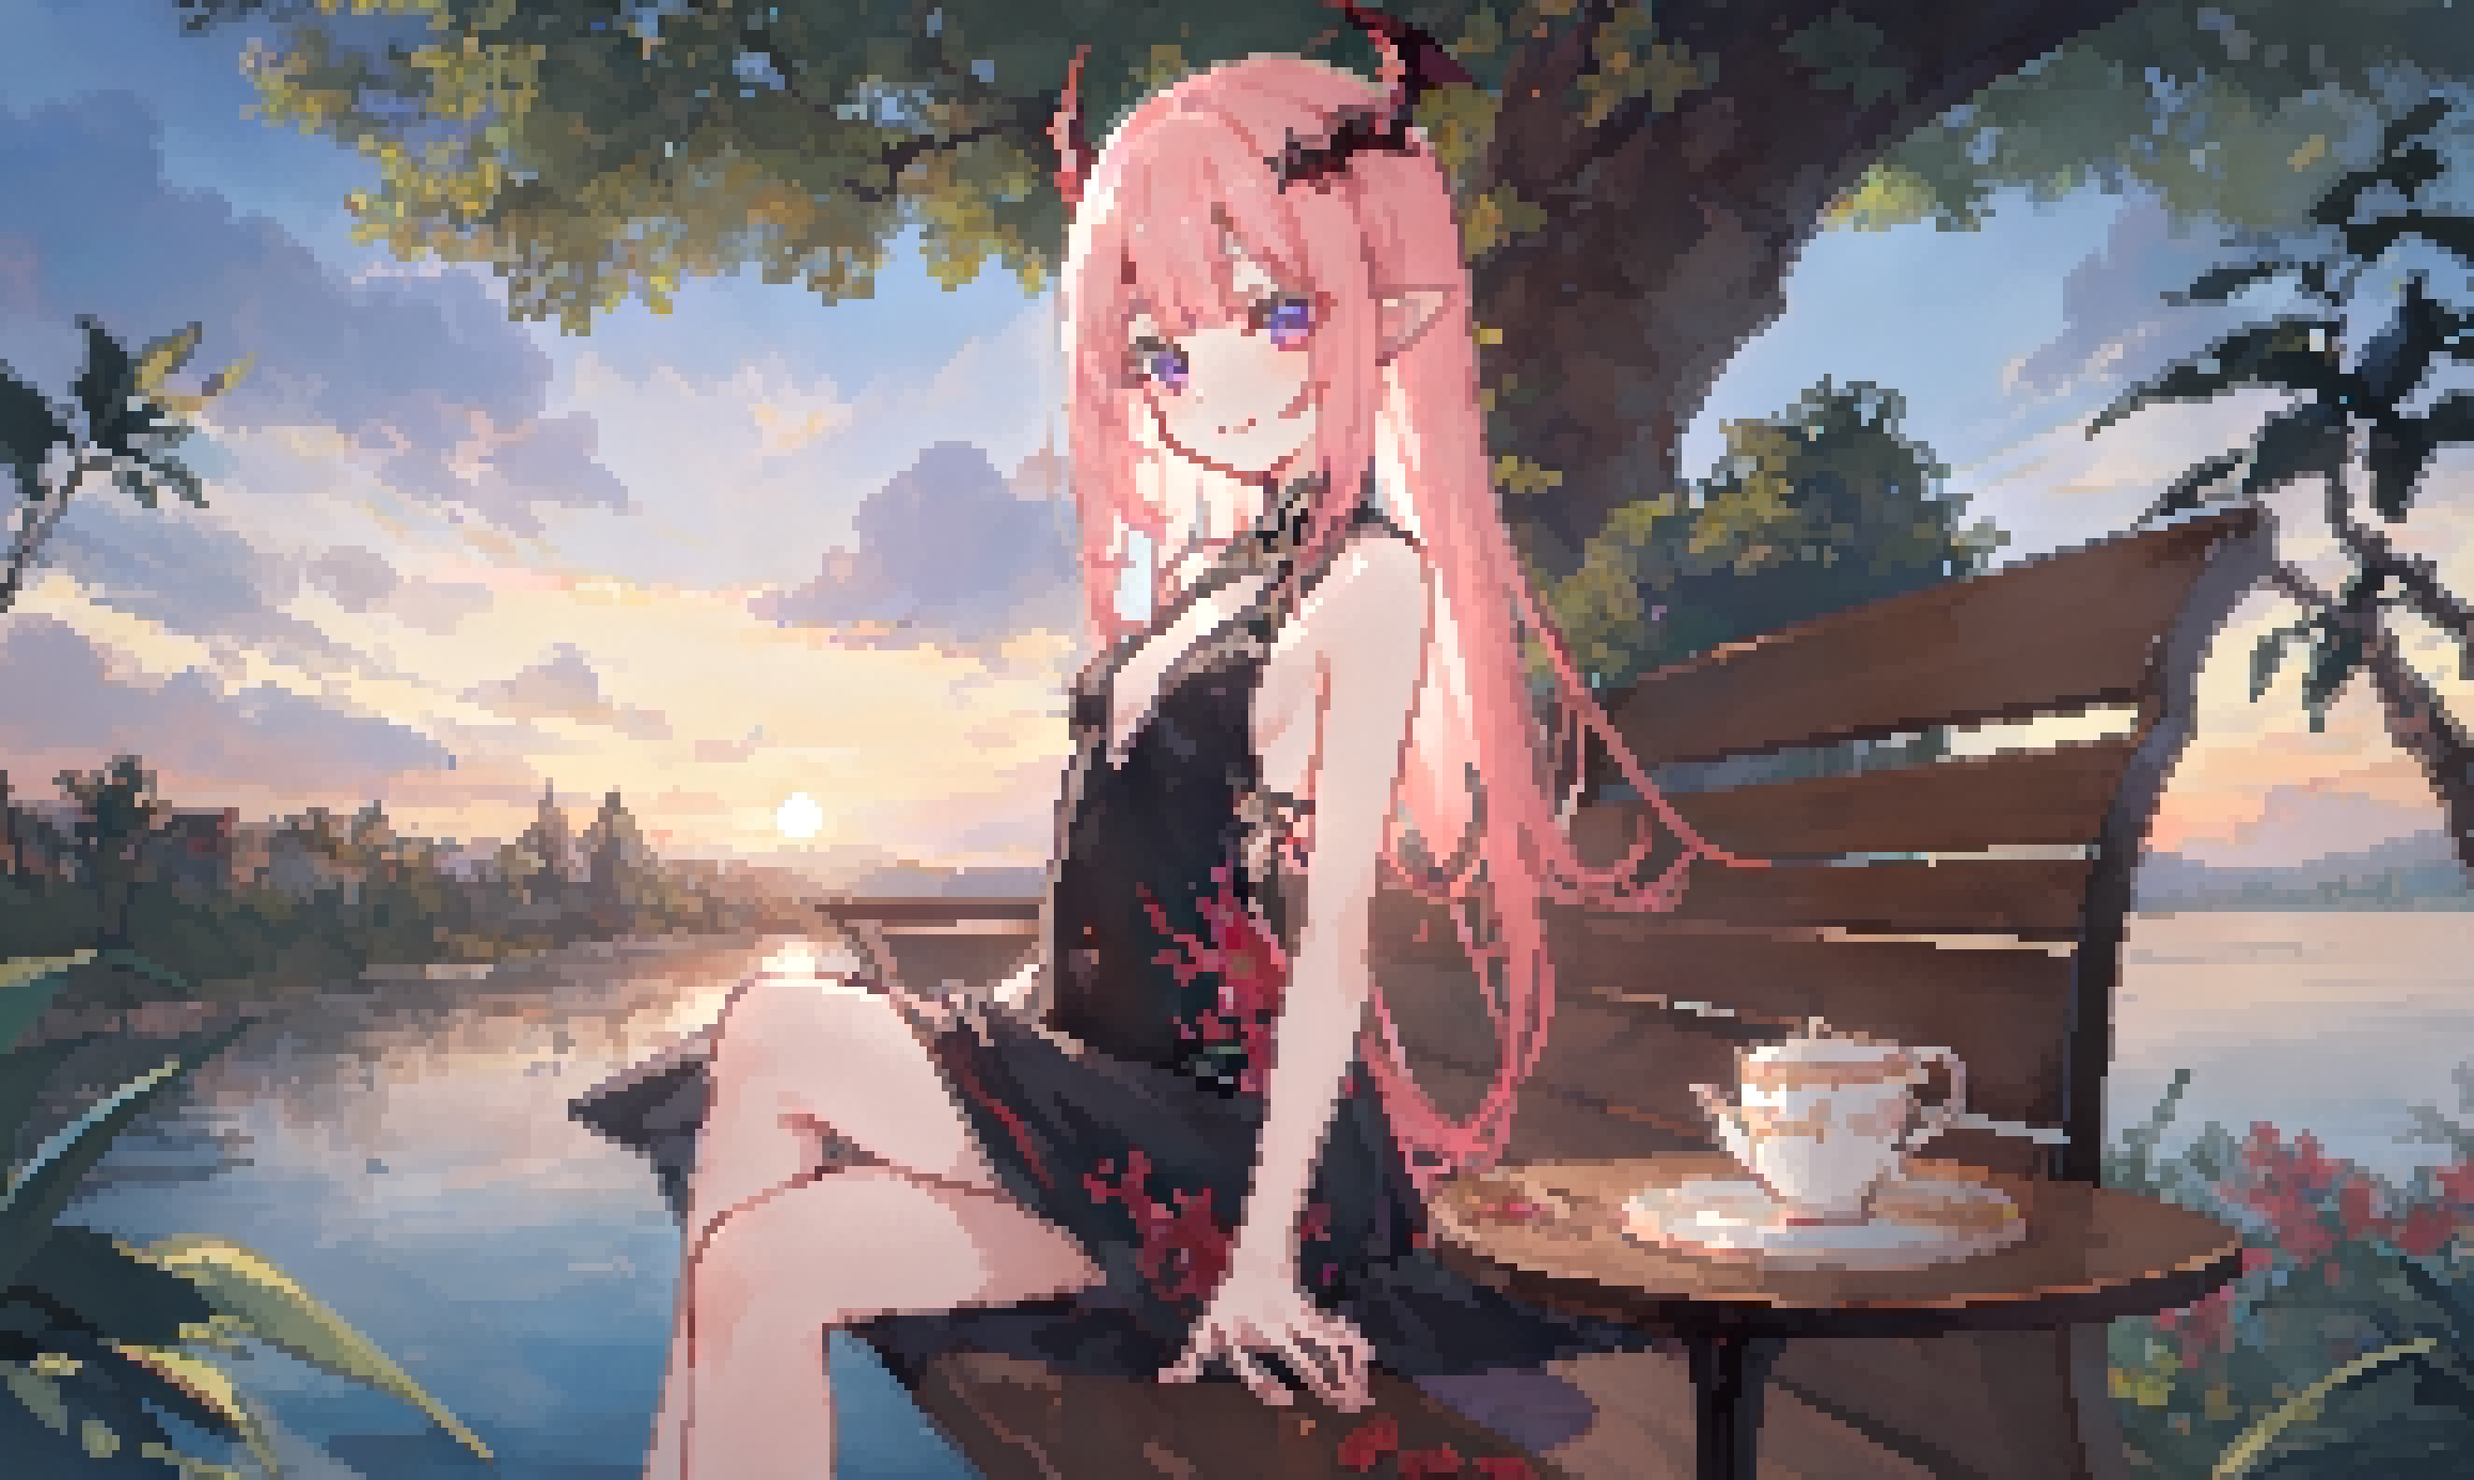
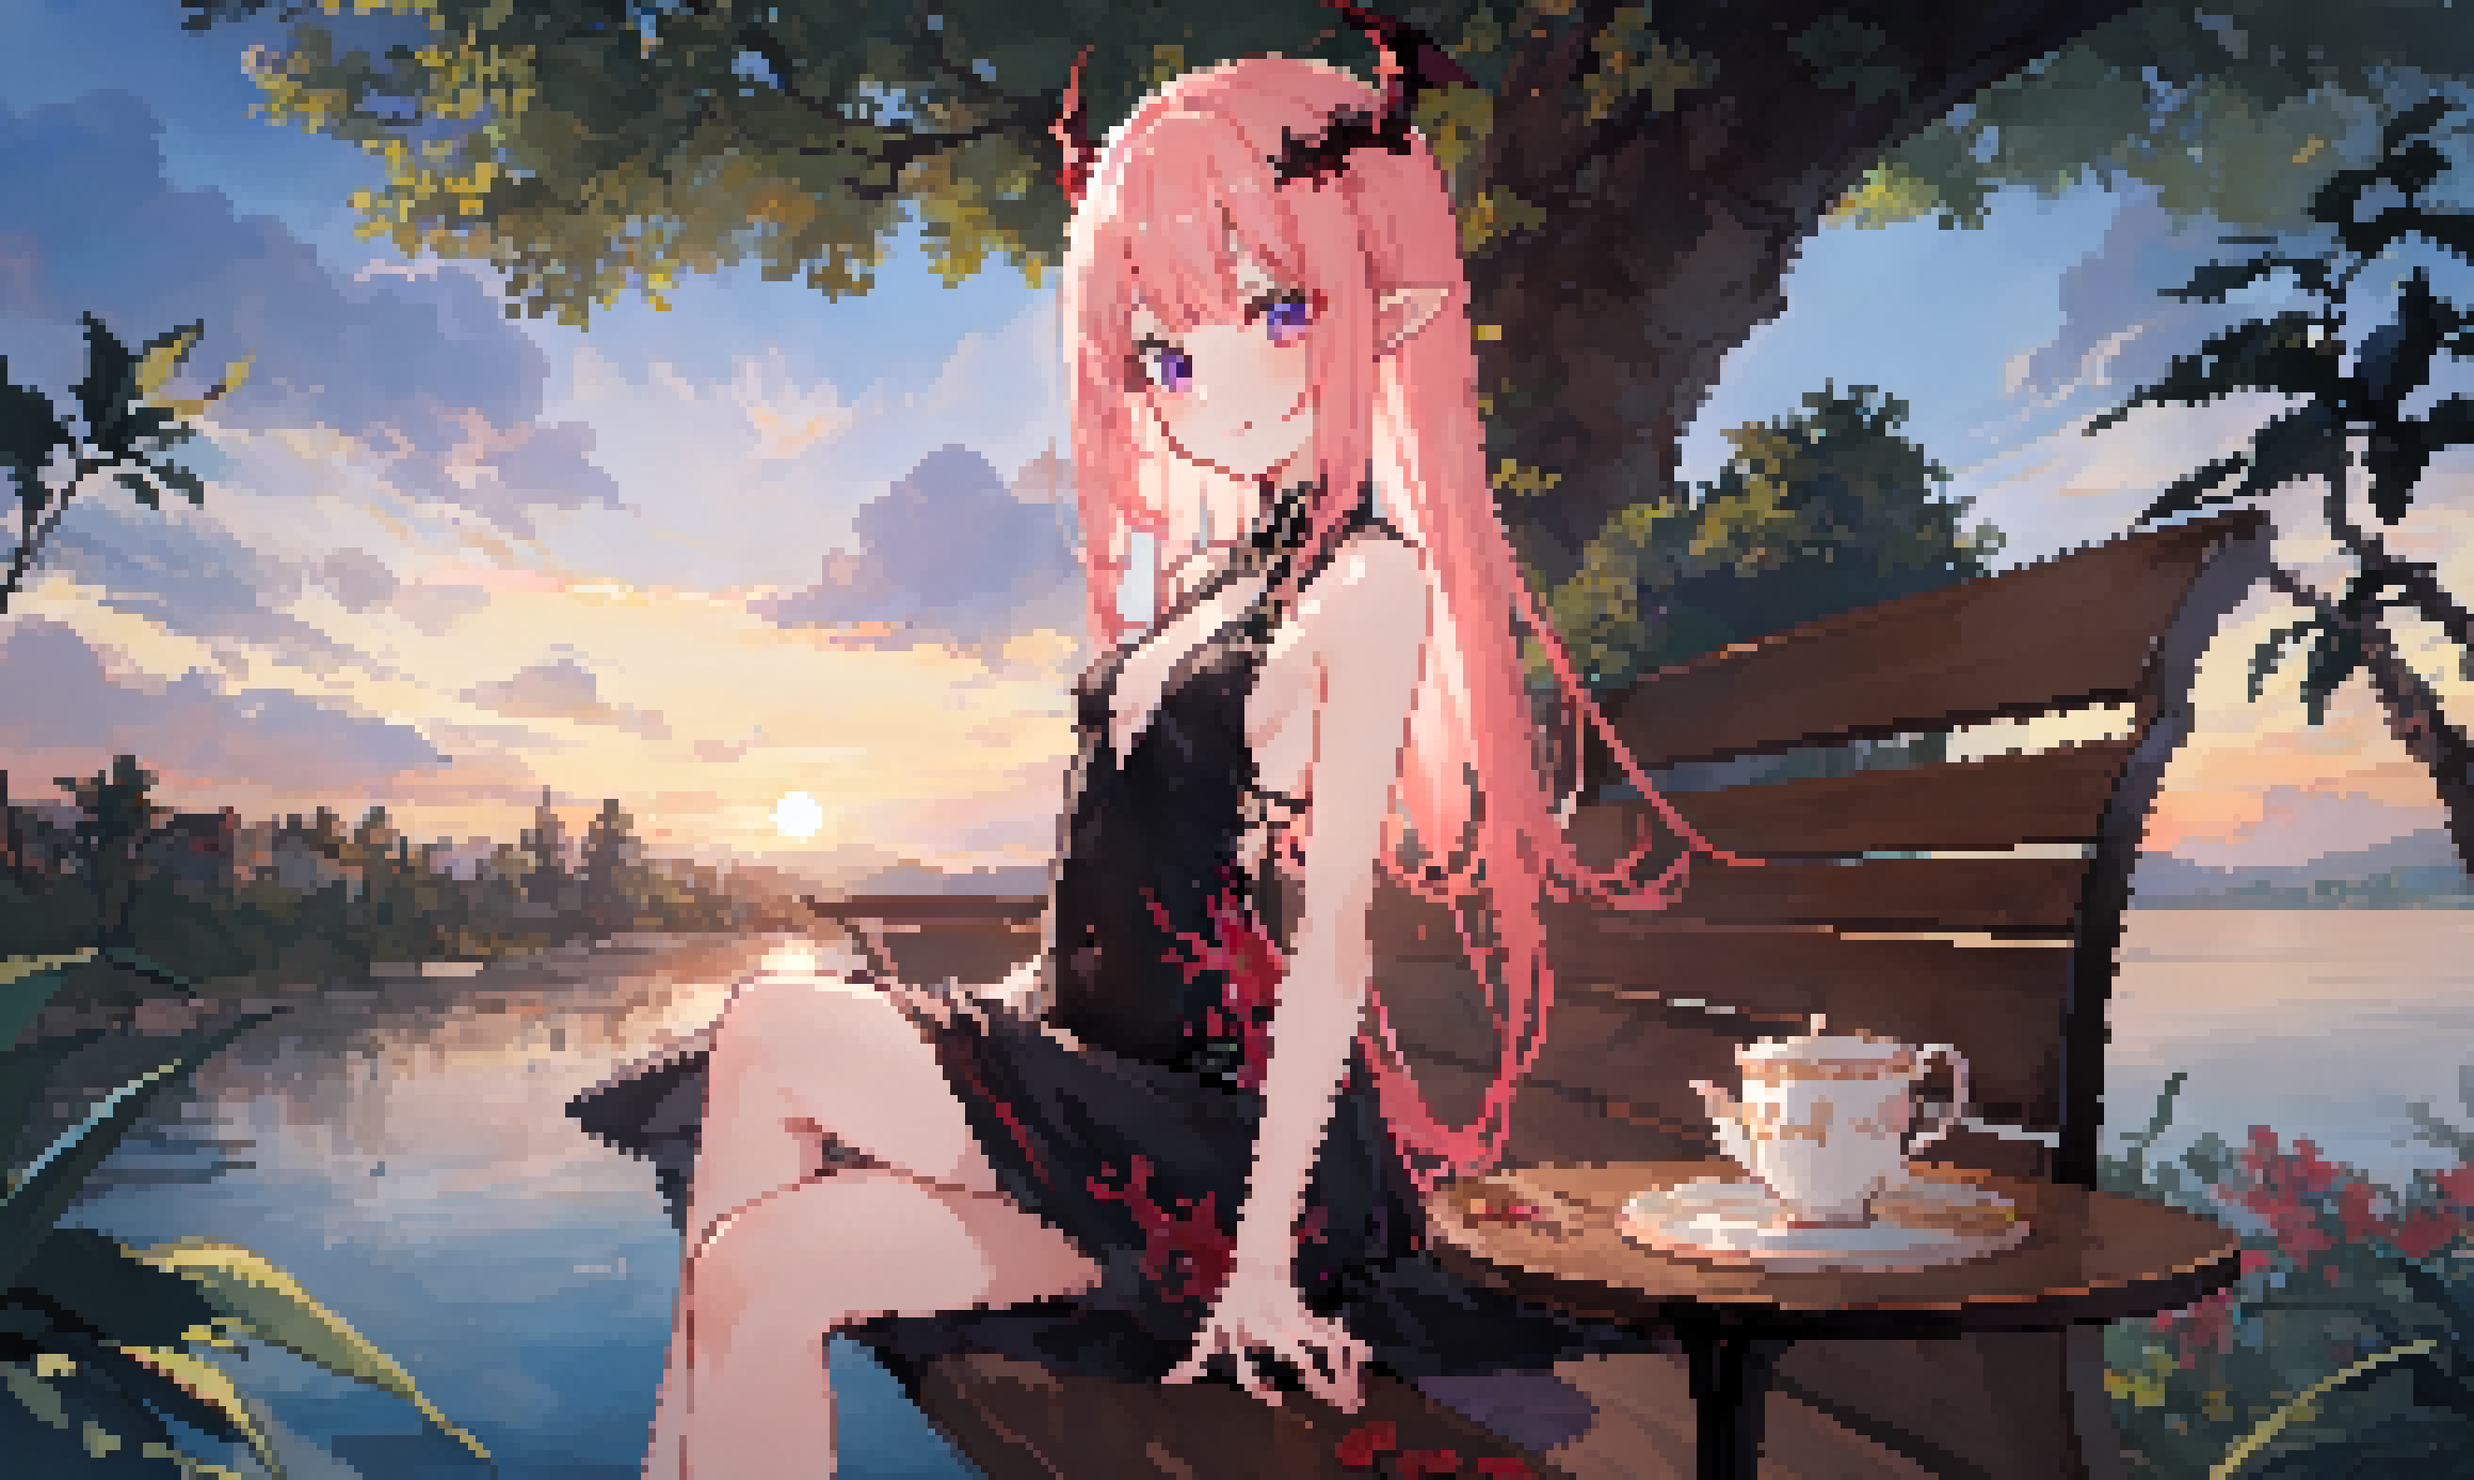
Updates

diff --git a/pixelize.m b/pixelize.m
@@ -1,11 +1,13 @@
-function output = pixelize(input, target_size, resize_method, thickness, color_matching, patch_size)
+function output = pixelize(input, target_size, patch_size, thickness, color_matching, contrast, saturation, colors)
     arguments
         input uint8;
         target_size int32 = 128;
-        resize_method string = "bicubic";
-        thickness int32 = 5;
+        patch_size int32 = 8;
+        thickness int32 = 2;
         color_matching = true;
-        patch_size int32 = 16;
+        contrast single = 1.0;
+        saturation single = 1.0;
+        colors int32 = -1;
     end
     input = single(input)/255;
     
@@ -20,27 +22,29 @@ function output = pixelize(input, target_size, resize_method, thickness, color_m
     if color_matching
         img = match_color(img, input);
     end
-    % imshow(img);
     
     % downscale
-    % Different downscale method may have Different result
+    % Use median/mean and extremal value to determine the value we need
     img_lab = rgb2lab(img);
     img_lab(:, :, 1) = apply_chunk_new(img_lab(:, :, 1), patch_size, patch_size, @find_pixel);
     img_lab(:, :, 2) = apply_chunk_new(img_lab(:, :, 2), patch_size, patch_size, @median2);
     img_lab(:, :, 3) = apply_chunk_new(img_lab(:, :, 3), patch_size, patch_size, @median2);
     img = lab2rgb(img_lab);
-    % imshow(img);
-    img_sm = resize(img, target_size, resize_method, patch_size);
-    % img_sm = chunk_mean_downsample(img, patch_size);
+    img_sm = resize(img, target_size, 'nearest', patch_size);
     
     % After downscale
     % Apply color palette
     % Apply dithering
-    % img_sm = sharpening(img_sm, 2);
-    % [~, centers] = imsegkmeans(img_sm, 64);
-    % color_map = min(max(centers, 0), 1);
-    % img_sm = rgb2ind(img_sm, double(color_map), 'dither');
-    % img_sm = ind2rgb(img_sm, double(color_map));
+    if colors > 0
+        [~, centers] = imsegkmeans(img_sm, colors);
+        color_map = min(max(centers, 0), 1);
+        img_sm = rgb2ind(img_sm, double(color_map), 'dither');
+        img_sm = ind2rgb(img_sm, double(color_map));
+    end
+    % Modify contrast and saturation
+    if contrast ~= 1 || saturation
+        img_sm = color_styling(img_sm, saturation, contrast);
+    end
     
     % Reupscale use nearest to get "pixel" effect
     img_lg = imresize(img_sm, [size(input, 1), size(input, 2)], 'nearest');
@@ -48,39 +52,22 @@ function output = pixelize(input, target_size, resize_method, thickness, color_m
 end
 
 
-function output = chunk_mean_downsample(img, chunk_size)
-    [h, w, ~] = size(img);
-    h = h / chunk_size;
-    w = w / chunk_size;
-    output = zeros([h w]);
-    x = 0;
-    for i = 1:chunk_size:size(img, 1)
-        y = 0;
-        x = x + 1;
-        for j = 1:chunk_size:size(img, 2)
-            y = y + 1;
-            chunk = img(i:i+chunk_size-1, j:j+chunk_size-1, :);
-            output(x, y, 1) = mean2(chunk(:, :, 1));
-            output(x, y, 2) = mean2(chunk(:, :, 2));
-            output(x, y, 3) = mean2(chunk(:, :, 3));
-        end
-    end
-end
-
-
 function output = find_pixel(chunk)
-    med = median(median(chunk));
-    mu = mean(mean(chunk));
-    maximum = max(max(chunk));
-    minimum = min(min(chunk));
-    if med < mu || maximum - mu > mu - minimum
-        output = minimum;
-    else
-        output = maximum;
-    end
+    % med = median(chunk, 'all');
+    % mu = mean(chunk, 'all');
+    % maximum = max(max(chunk));
+    % minimum = min(min(chunk));
+    % output = med;
+    % if med < mu && maximum - med > med - minimum
+    %     output = minimum;
+    % elseif med > mu && maximum - med < med - minimum
+    %     output = maximum;
+    % end
+    [w, h] = size(chunk);
+    output = chunk(w/2, h/2);
 end
 
 
 function output = median2(chunk)
-    output = median(median(chunk));
+    output = median(chunk, 'all');
 end

diff --git a/main.m b/main.m
@@ -1,54 +1,14 @@
-img_name = "00813";
+img_name = "00909";
 img_original = imread('image/' + img_name + ".png");
 patch_size = 8;
-for settings = [64, 96, 128; 2 3 3]
+for settings = [96 128 160; 2 3 3]
     pix_size = settings(1);
     expand = settings(2);
     disp(settings);
     
     img = resize(img_original, pix_size * patch_size, 'bicubic', patch_size);
-    pixelized_nearest3 = pixelize(img, pix_size, 'nearest', expand, false, patch_size);
-    pixelized_nearest3_cm = pixelize(img, pix_size, 'nearest', expand, true, patch_size);
+    pixelized_nearest3 = pixelize(img, pix_size, patch_size, expand, false);
+    pixelized_nearest3_cm = pixelize(img, pix_size, patch_size, expand, true, 1.1, 1.2);
     imwrite(pixelized_nearest3, 'image/' + img_name + '-' + num2str(pix_size*4) + "_pixelized_matlab.png");
     imwrite(pixelized_nearest3_cm, 'image/' + img_name + '-' + num2str(pix_size*4) + "_pixelized_cm_matlab.png");
 end
-
-% pix_size = 96;
-% img = resize(img_original, pix_size * patch_size, 'bicubic', patch_size);
-% pixelized_nearest3 = pixelize(img, pix_size, 'nearest', 3, false, patch_size);
-% pixelized_nearest3_cm = pixelize(img, pix_size, 'nearest', 3, true, patch_size);
-% figure();
-% subplot(1, 4, 1); imshow(img);
-% subplot(1, 4, 2); imshow(pixelized_nearest3); title('without color matching');
-% subplot(1, 4, 3); imshow(pixelized_nearest3_cm); title('with color matching');
-% subplot(1, 4, 4); imshow((pixelized_nearest3_cm - pixelized_nearest3).*3); title('difference 3x');
-
-
-% pixelized_nearest0 = pixelize(img, pix_size, 'nearest', 0, true, patch_size);
-% pixelized_nearest1 = pixelize(img, pix_size, 'nearest', 1, true, patch_size);
-% pixelized_nearest2 = pixelize(img, pix_size, 'nearest', 2, true, patch_size);
-% pixelized_nearest3 = pixelize(img, pix_size, 'nearest', 3, true, patch_size);
-% pixelized_bicubic0 = pixelize(img, pix_size, 'bicubic', 0, true, patch_size);
-% pixelized_bicubic1 = pixelize(img, pix_size, 'bicubic', 1, true, patch_size);
-% pixelized_bicubic2 = pixelize(img, pix_size, 'bicubic', 2, true, patch_size);
-% pixelized_bicubic3 = pixelize(img, pix_size, 'bicubic', 3, true, patch_size);
-% pixelized_box0 = pixelize(img, pix_size, 'box', 0, true, patch_size);
-% pixelized_box1 = pixelize(img, pix_size, 'box', 1, true, patch_size);
-% pixelized_box2 = pixelize(img, pix_size, 'box', 2, true, patch_size);
-% pixelized_box3 = pixelize(img, pix_size, 'box', 3, true, patch_size);
-
-
-% figure();
-% subplot(3, 5, 1) ; imshow(img); title('Original');
-% subplot(3, 5, 2) ; imshow(pixelized_nearest0); title(strcat('nearest0'));
-% subplot(3, 5, 3) ; imshow(pixelized_nearest1); title(strcat('nearest1'));
-% subplot(3, 5, 4) ; imshow(pixelized_nearest2); title(strcat('nearest2'));
-% subplot(3, 5, 5) ; imshow(pixelized_nearest3); title(strcat('nearest3'));
-% subplot(3, 5, 7) ; imshow(pixelized_bicubic0); title(strcat('bicubic0'));
-% subplot(3, 5, 8) ; imshow(pixelized_bicubic1); title(strcat('bicubic1'));
-% subplot(3, 5, 9) ; imshow(pixelized_bicubic2); title(strcat('bicubic2'));
-% subplot(3, 5, 10); imshow(pixelized_bicubic3); title(strcat('bicubic3'));
-% subplot(3, 5, 12); imshow(pixelized_box0); title(strcat('box0'));
-% subplot(3, 5, 13); imshow(pixelized_box1); title(strcat('box1'));
-% subplot(3, 5, 14); imshow(pixelized_box2); title(strcat('box2'));
-% subplot(3, 5, 15); imshow(pixelized_box3); title(strcat('box3'));

diff --git a/expansion_weight.m b/expansion_weight.m
@@ -6,27 +6,18 @@ function output = expansion_weight(input, k, avg_scale, dist_scale)
         dist_scale single = 3;
     end
     img_gray = rgb2gray(input);
-    avg_brightness = apply_chunk_new(img_gray, k*3, k, @mean2);
-    max_brightness = apply_chunk_new(img_gray, k*3, k, @maximum2);
-    min_brightness = apply_chunk_new(img_gray, k*3, k, @minimum2);
+    avg_brightness = apply_chunk_new(img_gray, k*3, k, @median2);
+    max_brightness = apply_chunk_new(img_gray, k, k, @maximum2);
+    min_brightness = apply_chunk_new(img_gray, k, k, @minimum2);
     bright_distance = max_brightness - avg_brightness;
     dark_distance = avg_brightness - min_brightness;
     
-    % shift_avg_brightness = apply_shift_chunk(img_gray, k, @mean2);
-    % shift_max_brightness = apply_shift_chunk(img_gray, k, @maximum2);
-    % shift_min_brightness = apply_shift_chunk(img_gray, k, @minimum2);
-    % shift_bright_distance = shift_max_brightness - shift_avg_brightness;
-    % shift_dark_distance = shift_avg_brightness - shift_min_brightness;
-    
     weight = (avg_brightness-0.5)*avg_scale;
     weight = weight - (bright_distance-dark_distance)*dist_scale;
-    % shift_weight = (shift_avg_brightness-0.5)*avg_scale;
-    % shift_weight = shift_weight - (shift_bright_distance-shift_dark_distance)*dist_scale;
-    % weight = (weight+shift_weight)/2;
     
     output = sigmoid(weight);
     output = imresize(output, 1/single(k), 'nearest');
-    output = imresize(output, k, "bicubic");
+    output = imresize(output, k, "bilinear");
     output = output - minimum2(output);
     output = output / maximum2(output);
 end
@@ -39,18 +30,6 @@ function output = minimum2(chunk)
     output = min(min(chunk));
 end
 
-function output = interpolate(chunk)
-    [h, w] = size(chunk);
-    output = zeros(h, w);
-    tl = chunk(1, 1);
-    tr = chunk(1, w);
-    bl = chunk(h, 1);
-    br = chunk(h, w);
-    for i = 1:h
-        left = (bl * i + tl * (h-i))/h;
-        right = (br * i + tr * (h-i))/h;
-        for j = 1:w
-            output(i, j) = (right * j + left * (w-j))/w;
-        end
-    end
+function output = median2(chunk)
+    output = median(chunk, "all");
 end

diff --git a/test.m b/test.m
@@ -5,18 +5,19 @@ img = resize(img, pix_size * patch_size, 'bicubic', patch_size);
 img = single(img)/255;
 weight = expansion_weight(img, patch_size, 9, 4);
 weight = 1-weight;
-thickness3 = outline_expansion(img, 3, 3, patch_size, 6, 3);
+thickness2 = outline_expansion(img, 2, 2, patch_size, 6, 3);
 
-crop_box = [1, size(weight, 2)-128, 128, 128];
+% crop_box = [1, size(weight, 2)-128, 128, 128];
+crop_box = [1, 1, 128*8, 128*8];
 
-edge = outline_expansion(img, 3, 3, patch_size, 9, 4)-img;
+edge = outline_expansion(img, 2, 2, patch_size, 9, 4)-img;
 edge = (edge+1)./2;
 edge(abs(edge-0.5) < 0.01) = 1.0;
 
 figure(); 
 subplot(2, 3, 1); imshow(imcrop(img, crop_box)); title('Original');
 subplot(2, 3, 2); imshow(imcrop(weight, crop_box)); title('Feature Map');
-subplot(2, 3, 3); imshow(imcrop(thickness3, crop_box)); title('Thickness 3'); %imshow(edge); title('Thickness2 edge');
+subplot(2, 3, 3); imshow(imcrop(thickness2, crop_box)); title('Thickness 2'); %imshow(edge); title('Thickness2 edge');
 subplot(2, 3, 4); imshow(outline_expansion(img, 1, 1, patch_size, 6, 3)); title('Thickness 1');
 subplot(2, 3, 5); imshow(outline_expansion(img, 2, 2, patch_size, 6, 3)); title('Thickness 2');
 subplot(2, 3, 6); imshow(outline_expansion(img, 3, 3, patch_size, 6, 3)); title('Thickness 3');

diff --git a/outline_expansion.m b/outline_expansion.m
@@ -12,6 +12,7 @@ function output = outline_expansion(input, round_erode, round_dilate, patch_size
     
     % weight
     weight = expansion_weight(input, patch_size, avg_scale, dist_scale);
+    orig_weight = sigmoid((weight - 0.5) * 5) * 0.25;
     
     img_erode = input;
     img_dilate = input;
@@ -22,6 +23,7 @@ function output = outline_expansion(input, round_erode, round_dilate, patch_size
         img_dilate = imdilate(img_dilate, kernel_expansion);
     end
     output = img_erode .* weight + img_dilate .* (1 - weight);
+    output = output .* (1-orig_weight) + input .* orig_weight;
     
     % Use Opening and Closing to remove "white line inside black line" artifact
     for i = 1:round_erode
@@ -33,8 +35,4 @@ function output = outline_expansion(input, round_erode, round_dilate, patch_size
     for i = 1:round_erode
         output = imerode(output, kernel_smoothing);
     end
-    % figure();
-    % subplot(1, 3, 1); imshow(img_erode); title('erode');
-    % subplot(1, 3, 2); imshow(img_dilate); title('dilate');
-    % subplot(1, 3, 3); imshow(output); title('Ours');
 end

diff --git a/color_styling.m b/color_styling.m
@@ -1,0 +1,15 @@
+function output = color_styling(input, saturation, contrast)
+    arguments
+        input;
+        saturation single = 1.2;
+        contrast single = 1.1;
+    end
+    
+    output = input;
+    output = rgb2hsv(output);
+    output(:, :, 2) = output(:, :, 2) * saturation;
+    output(:, :, 3) = output(:, :, 3) * contrast - (contrast-1);
+    output(output>1) = 1;
+    output(output<0) = 0;
+    output = hsv2rgb(output);
+end
